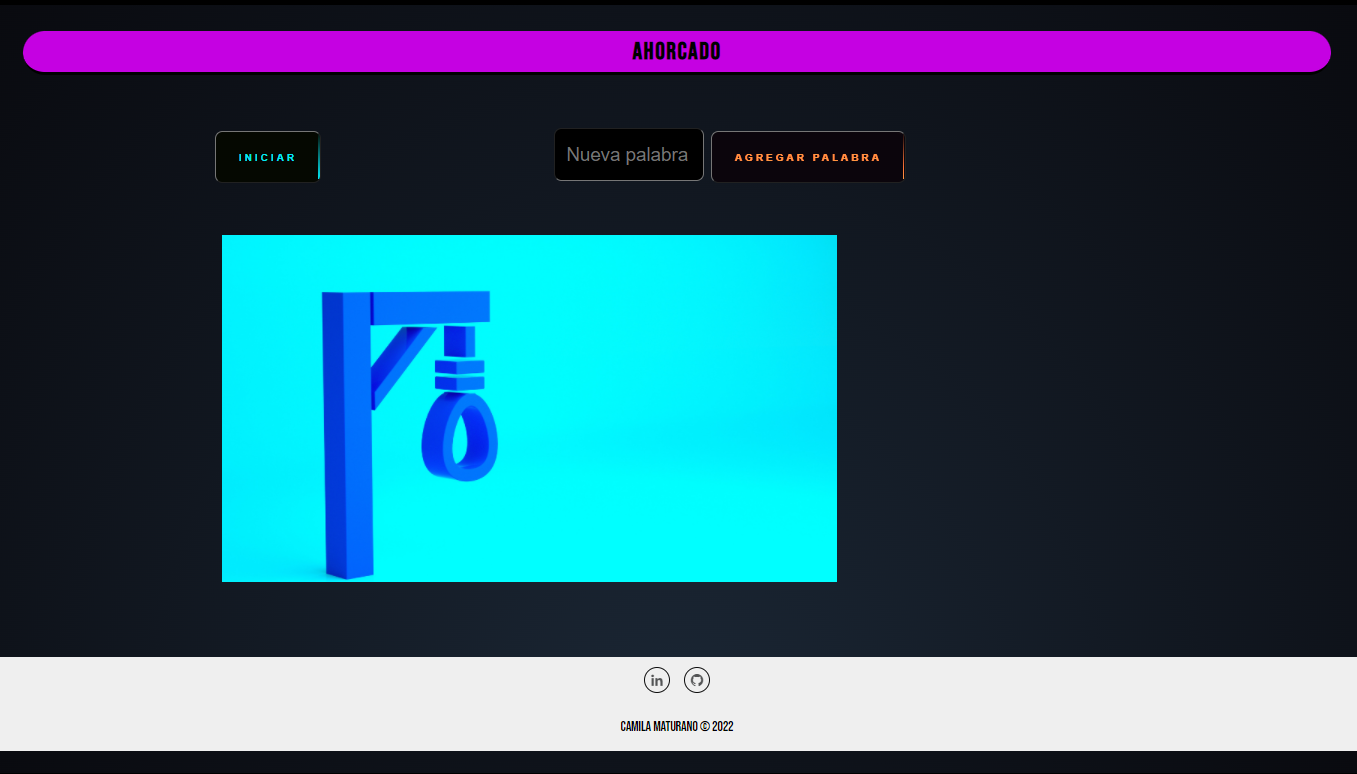
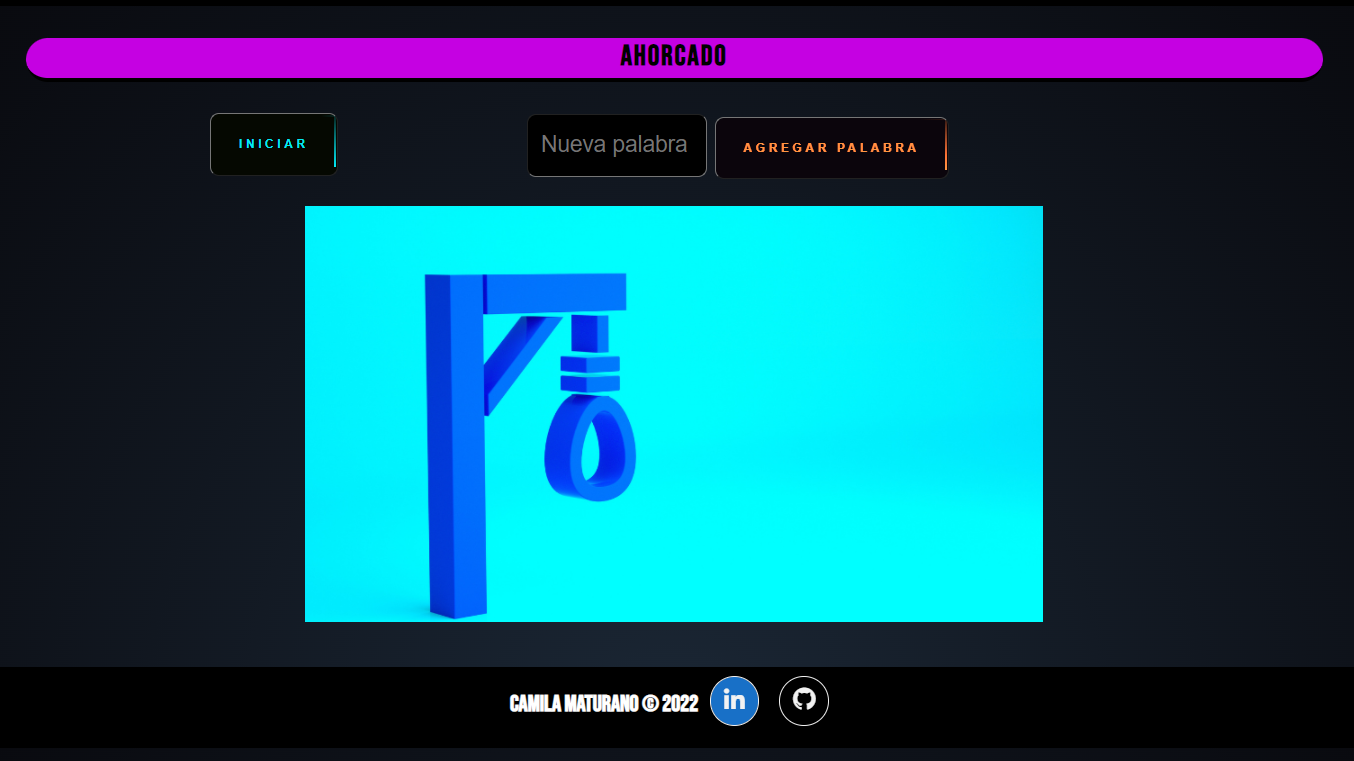
Cambio de color e img proyecto

diff --git a/css/style.css b/css/style.css
@@ -1,13 +1,14 @@
 body{
     font-family: 'Roboto', sans-serif;
-    background-image: linear-gradient(120deg, #84fab0 0%, #8fd3f4 100%);
+    background: #1c2541;
+    color: #fff;
 }
 /*Menu*/
 .menu-principal{
     width: 100%;
     position: fixed;
     margin: 0 auto;
-    background-color: #15ab92;
+    background-color: #0b132b ;
 }
 .titulo{
     padding-left: 35px;
@@ -73,10 +74,10 @@ nav a{
     margin-left: 100px;
     font-weight: bold;
     font-size: 55px;
-    color:rgb(0, 0, 0);
+    color: #3a506b;
 }
 .name{
-    color: #84b6f4;
+    color:  #26A69A;
 }
 /*Seccion Acerca de mí*/
 .info-personal{
@@ -95,7 +96,7 @@ section h1{
 hr{
     width: 50%;
     height: 3px;
-    background-color: rgb(0, 0, 0);
+    background-color: #fff;
 }
 section p{
     text-align: center;
@@ -118,7 +119,7 @@ section h2{
     height: 300px;
     box-shadow: 0px 0 6px rgba(0, 0, 0, 1.5);
     border-radius: 15px;
-    background: rgba(221, 220, 220, 0.5);
+    background: rgba(155, 188, 224, 0.75);
 }
 .contenedor{
     text-align: center;
@@ -126,7 +127,7 @@ section h2{
     display: inline-block;
     margin-right: 10px;
     margin-left: 15px;
-    transition: 1500ms;
+    transition: 1000ms;
     cursor: pointer;
 }
 .img-habilidades{
@@ -136,11 +137,14 @@ section h2{
 .contenedor:hover{
     box-shadow: 0 0 6px rgba(0, 0, 0, 1.5);
     border-radius: 15px;
+    padding-left: 5px;
+    padding-right: 5px;
 } 
 .texto{
     font-size: 20px;
     font-weight: bold;
     margin-top: 20px;
+    color: #000;
 }
 /*Sección Proyectos*/
 .contenedor-proyectos{
@@ -165,6 +169,7 @@ section h2{
     font-size: 40px;
     font-weight: bold;
     margin-bottom: 20px;
+    color: #000;
 }
 a img{
     margin-left: 30px;
@@ -174,7 +179,7 @@ a img{
 /*Pie de página*/
 .footer-basic {
     margin-top: 50px;
-    background-color:#000;
+    background-color: #000000;
     height: 90px;
 }
 
